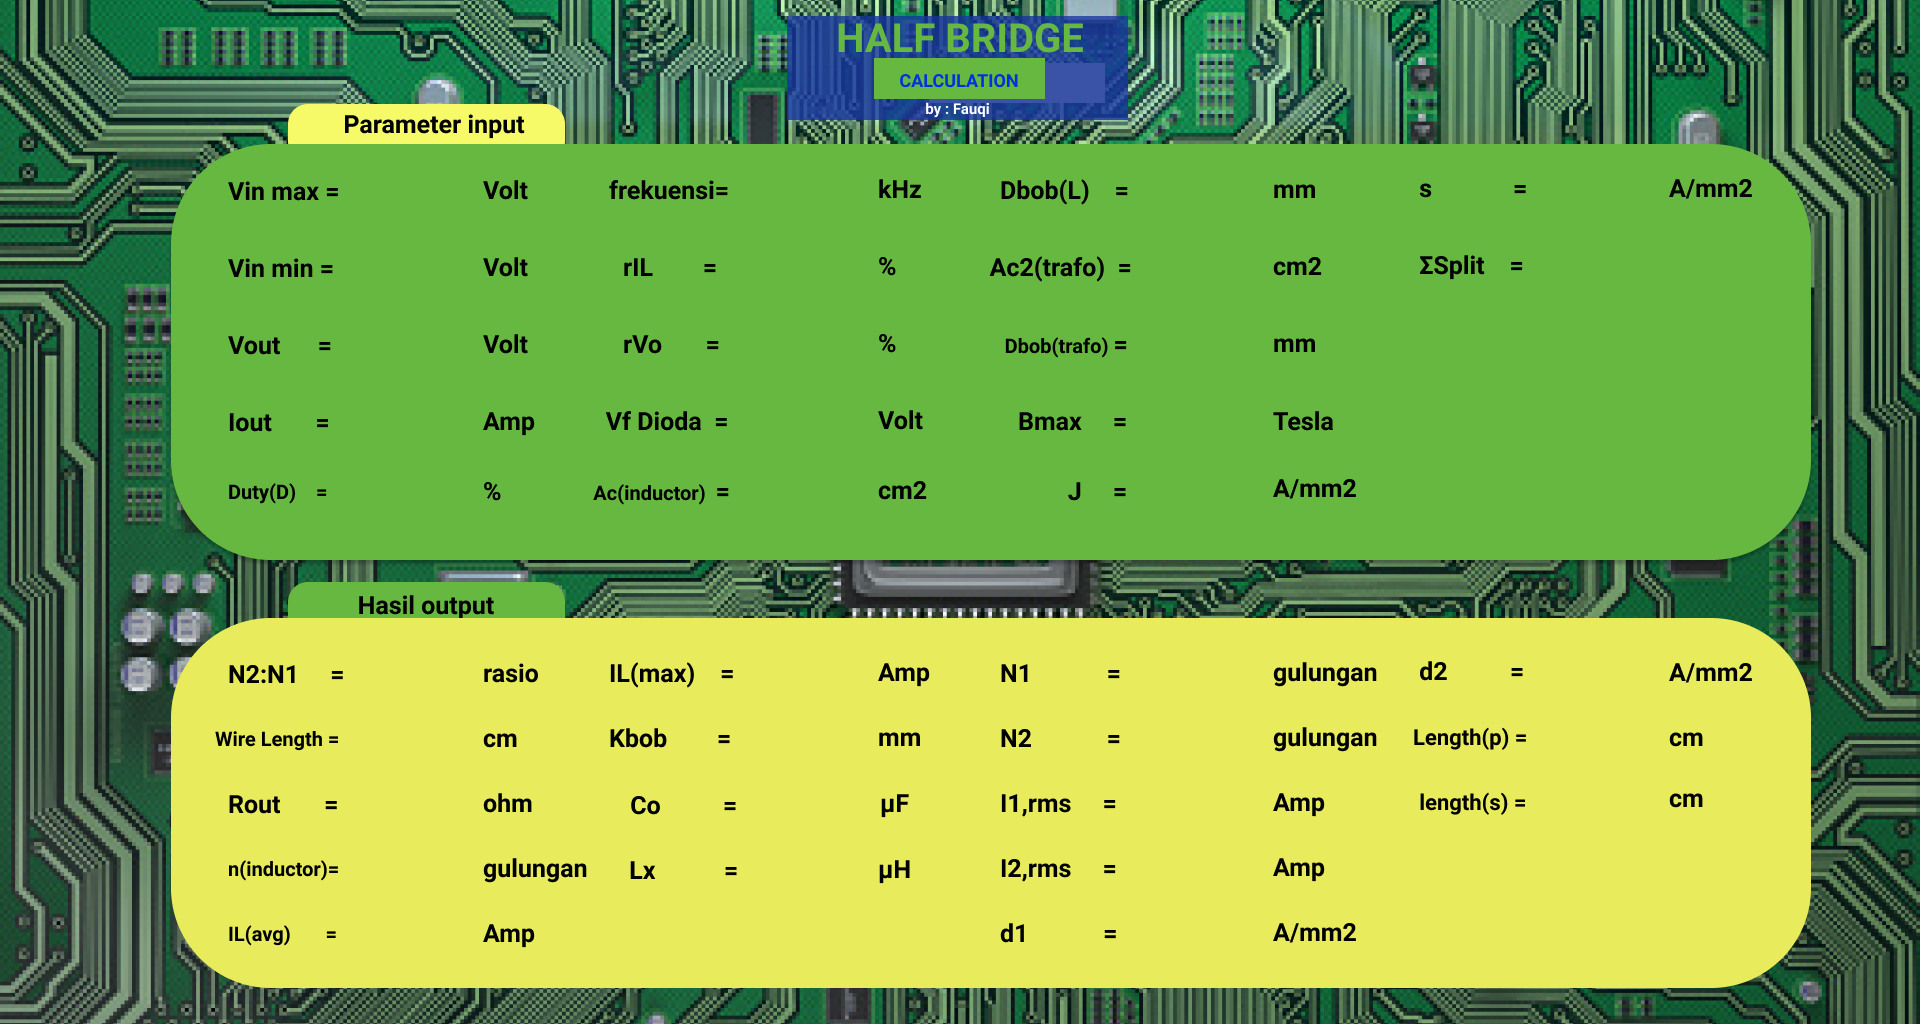
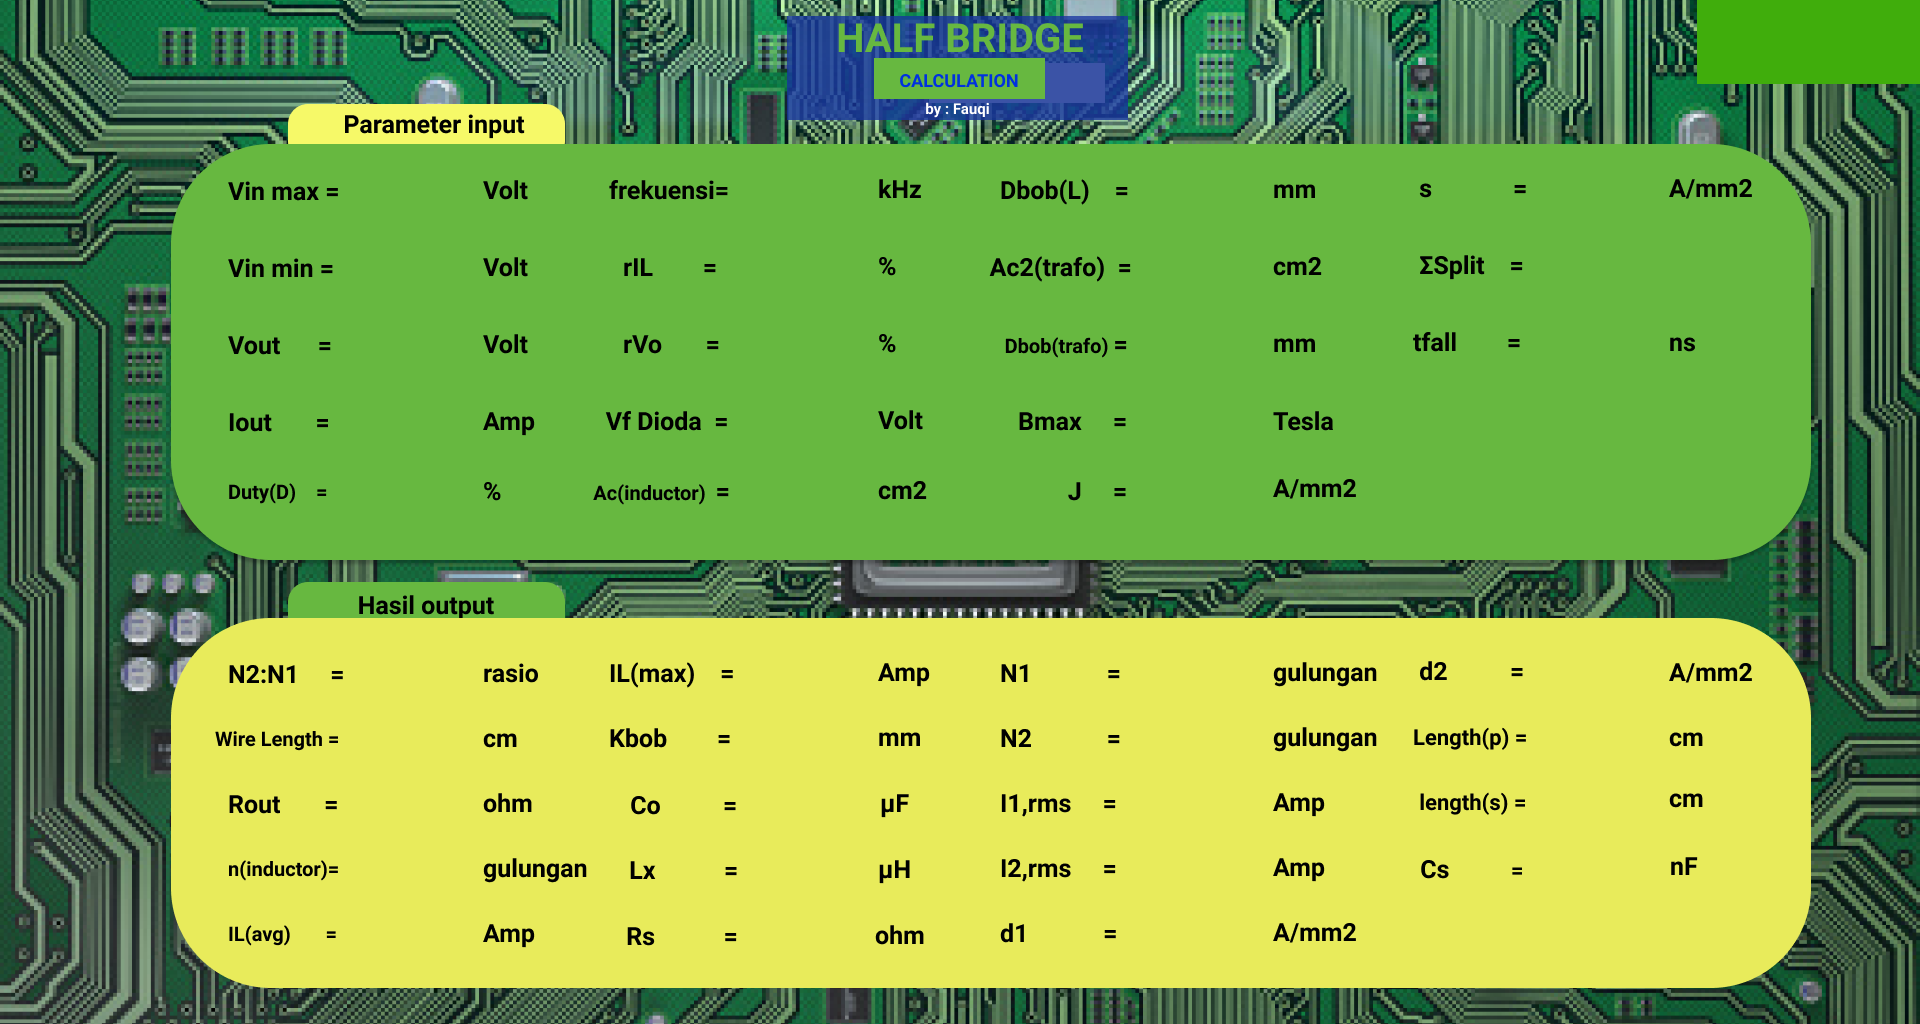
heheehehe

diff --git a/page.py b/page.py
@@ -4,13 +4,13 @@ from PIL import ImageTk, Image
 from tkinter import messagebox
 import math
 scaleW=1
-scaleH=1
+scaleH=0
 root=Tk()
 SCREENWIDTH = root.winfo_screenwidth()
-SCREENHEIGHT = root.winfo_screenheight()-20
+SCREENHEIGHT = root.winfo_screenheight()-scaleH
 root.overrideredirect(True)
 root.geometry("{0}x{1}+0+0".format(SCREENWIDTH, SCREENHEIGHT))
-root.resizable(True,True)
+# root.resizable(True,True)
 class FullScreenApp(object):
     def __init__(self, master, **kwargs):
         self.master=master
@@ -25,20 +25,32 @@ class FullScreenApp(object):
         if self.flag==0:
             self.master.overrideredirect(False)
             self.flag=1
+            scaleH=80
+            
+
         else:
             self.master.overrideredirect(True)
             self.flag=0
-
+            scaleH=0
+            
+        Page(root)
         
     def full(self,event):
+        global SCREENHEIGHT,SCREENWIDTH,scaleH,scaleW
         self.master.overrideredirect(True)
         self.flag=0
-
+        scaleH=0
+        
+        Page(root)
+        
       
 app = FullScreenApp(root)
 class Page:
     def __init__(self,master):
         global SCREENHEIGHT,SCREENWIDTH,scaleH,scaleW
+        SCREENWIDTH = root.winfo_screenwidth()
+        SCREENHEIGHT = root.winfo_screenheight()-scaleH
+        master.geometry("{0}x{1}+0+0".format(SCREENWIDTH, SCREENHEIGHT))
         self.master=master
         self.sW=SCREENWIDTH
         self.sH=SCREENHEIGHT
@@ -50,6 +62,8 @@ class Page:
         self.showLayar()
         
     def page_init(self):
+        self.frame.place_forget()
+        self.frame2.place_forget()
         self.photo=Image.open("foto/awal.png")
         self.photo = self.photo.resize((self.sW, self.sH), Image.ANTIALIAS)
         self.gambar = ImageTk.PhotoImage(self.photo)
@@ -65,6 +79,9 @@ class Page:
         self.photo5=Image.open("foto/reset.png")
         self.photo5 = self.photo5.resize((int(self.sW*0.132), int(self.sH*0.06)), Image.ANTIALIAS)
         self.resetImage = ImageTk.PhotoImage(self.photo5)
+        self.photo6=Image.open("foto/default.png")
+        self.photo6 = self.photo6.resize((int(self.sW*0.0276), int(self.sH*0.14)), Image.ANTIALIAS)
+        self.defaultImage = ImageTk.PhotoImage(self.photo6)
         
 
         self.labelImage=Label(self.frame,height=SCREENHEIGHT,width=SCREENWIDTH,image=self.gambar)
@@ -74,7 +91,7 @@ class Page:
         self.backBtn=Button(self.frame2,image=self.backImage,command=self.back)
         self.calculateBtn=Button(self.frame2,activebackground="#67B840",image=self.calculateImage,command=self.calculate,borderwidth=0,bg="#67B840")
         self.resetBtn=Button(self.frame2,activebackground="#67B840",image=self.resetImage,command=self.reset,borderwidth=0,bg="#67B840")
-        self.defaultBtn=Button(self.frame2,command=self.default)
+        self.defaultBtn=Button(self.frame2,command=self.default,image=self.defaultImage,activebackground="#67B840",bg="#67B840",borderwidth=0)
         #self.entry[0][0]=Entry(self.frame2,font=20)
         for x in range(5):
             for y in range(5):    
@@ -126,14 +143,14 @@ class Page:
             for y in range(5):    
                 self.outLabel[x][y].place(x=offsetW2+((y*(labelWidth+jarakW2))),y=offsetH2+((x*(labelHeight+jarakH2))),width=labelWidth,height=labelHeight)
         
-        self.entry[2][3].place_forget()
+        #self.entry[2][3].place_forget()
         self.entry[3][3].place_forget()
         self.entry[4][3].place_forget()
 
-        self.outLabel[4][1].place_forget()
-        self.outLabel[3][3].place_forget()
+        # self.outLabel[4][1].place_forget()
+        # self.outLabel[3][3].place_forget()
         self.outLabel[4][3].place_forget()
-        self.defaultBtn.place(x=100,y=100,width=50,height=50)
+        self.defaultBtn.place(x=0.7395*self.sW,y=self.sH*0.3896,width=self.sW*0.0276,height=self.sH*0.14)
         self.master.bind('<Return>',self.enter)
     def enter(self,event):
         self.calculate()
@@ -180,13 +197,14 @@ class Page:
 
         self.s=float(self.entry[0][3].get())
         self.sigmaSplit=float(self.entry[1][3].get())
+        self.tfall=float(self.entry[2][3].get())
         #RUMUS
         self.duty=self.duty/100
         self.frekuensi=self.frekuensi*1000
         self.rIl=self.rIl/100
         self.rVo=self.rVo/100
         self.dBobInd=self.dBobInd/10
-
+        self.tfall=self.tfall*0.000000001
         self.rasio = self.vOut/(self.vinMax*self.duty)
         self.outLabel[0][0].config(text=str(self.rasio))
 
@@ -211,8 +229,8 @@ class Page:
 
         #mulai trafo
         #N1
-        T=1/self.frekuensi
-        self.N1_min=((self.duty*T*self.vinMax)/(2*self.bMax*self.acTraf))*pow(10,4)
+        self.T=1/self.frekuensi
+        self.N1_min=((self.duty*self.T*self.vinMax)/(2*self.bMax*self.acTraf))*pow(10,4)
         self.N1=2*self.N1_min
         #N2
         self.N2= self.N1*self.rasio
@@ -232,11 +250,18 @@ class Page:
         #Co
         self.dVo=self.rVo*self.vOut
         self.Co=((1-self.duty)/(8*self.Lx*pow(2*self.frekuensi,2)))*(self.vOut/self.dVo)
-      
+
+        #Rs dan Cs
+        self.voff=(self.vinMax/2)-(self.Lx*(self.dIlx/(self.duty*self.T)))-self.vOut
+        self.Cs = (self.iOut*self.tfall)/(2*self.voff)
+        print(self.Cs)
+        self.Rs=(self.duty*self.T)/(2*self.Cs)
+        print(self.Rs)
         self.Lx=self.Lx*1000000
         self.Co=self.Co*1000000
         self.length_p=self.length_p/10#dijadikan cm
         self.length_s=self.length_s/10
+        self.Cs=self.Cs*1000000000
         self.outLabel[3][1].config(text="{:.2f}".format(self.Lx))
         self.outLabel[4][0].config(text="{:.2f}".format(self.iL_avg))
         self.outLabel[0][1].config(text="{:.2f}".format(self.iL_max))
@@ -253,6 +278,9 @@ class Page:
         self.outLabel[2][1].config(text="{:.2f}".format(self.Co))
         self.outLabel[1][3].config(text="{:.2f}".format(self.length_p))
         self.outLabel[2][3].config(text="{:.2f}".format(self.length_s))
+        self.outLabel[4][1].config(text="{:.2f}".format(self.Rs))
+        self.outLabel[3][3].config(text="{:.2f}".format(self.Cs))
+
 
 
     
@@ -294,6 +322,8 @@ class Page:
         self.entry[0][3].insert(0,str(self.s))
         self.sigmaSplit=10
         self.entry[1][3].insert(0,str(self.sigmaSplit))
+        self.tfall=75
+        self.entry[2][3].insert(0,str(self.tfall))
 
 
   
